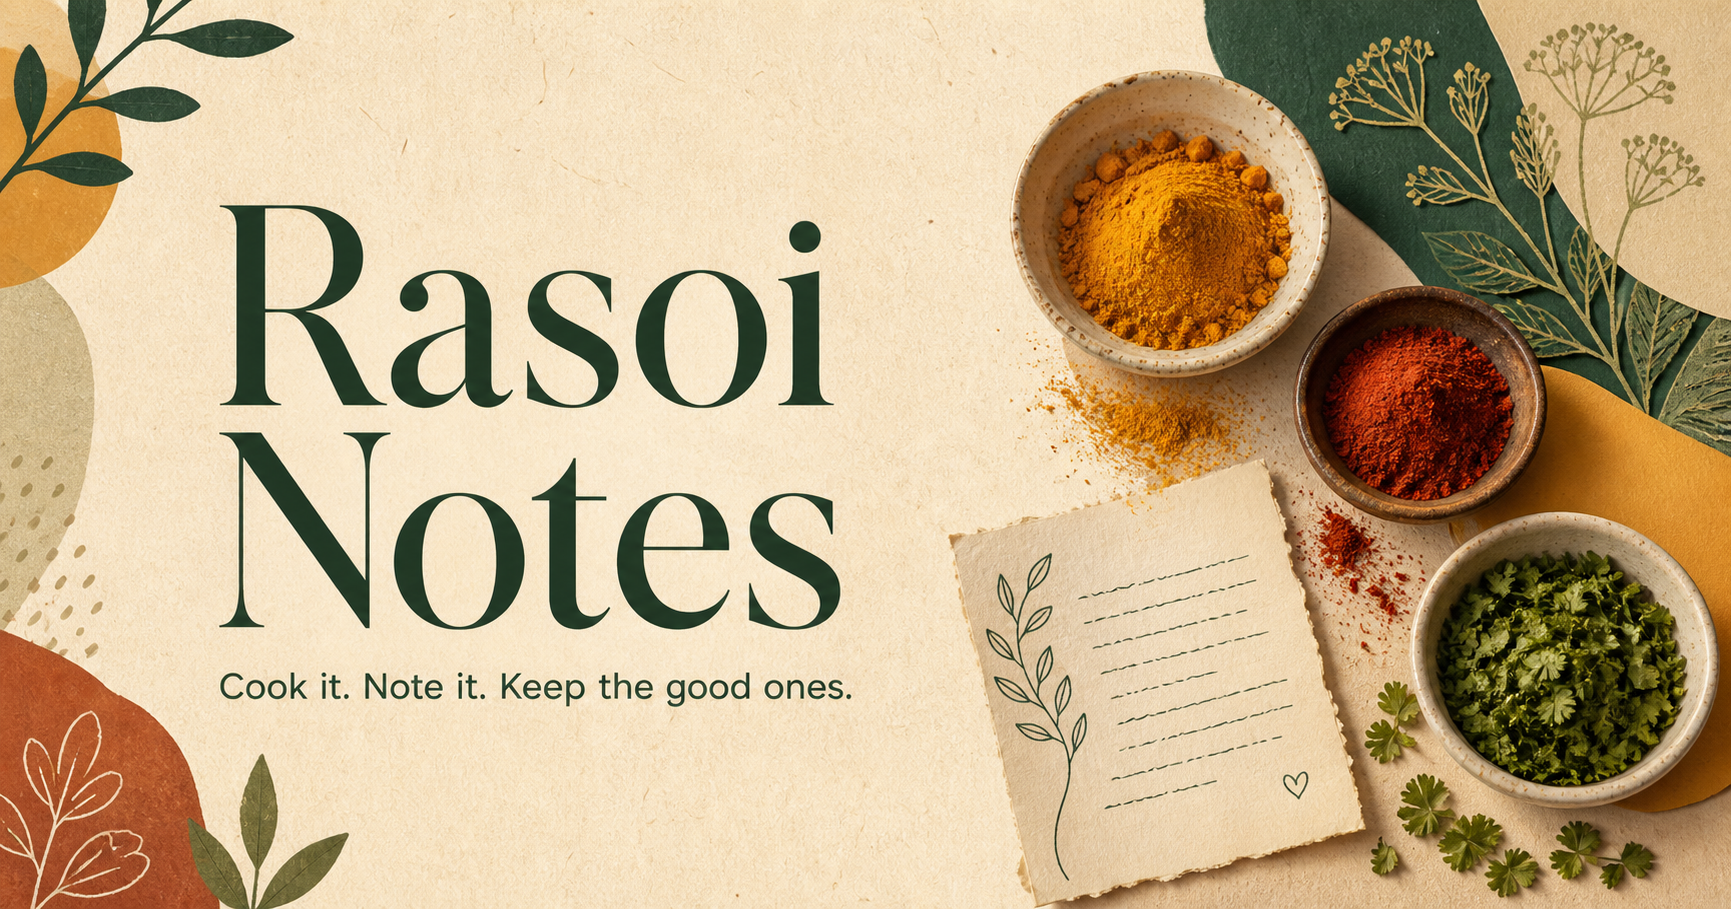
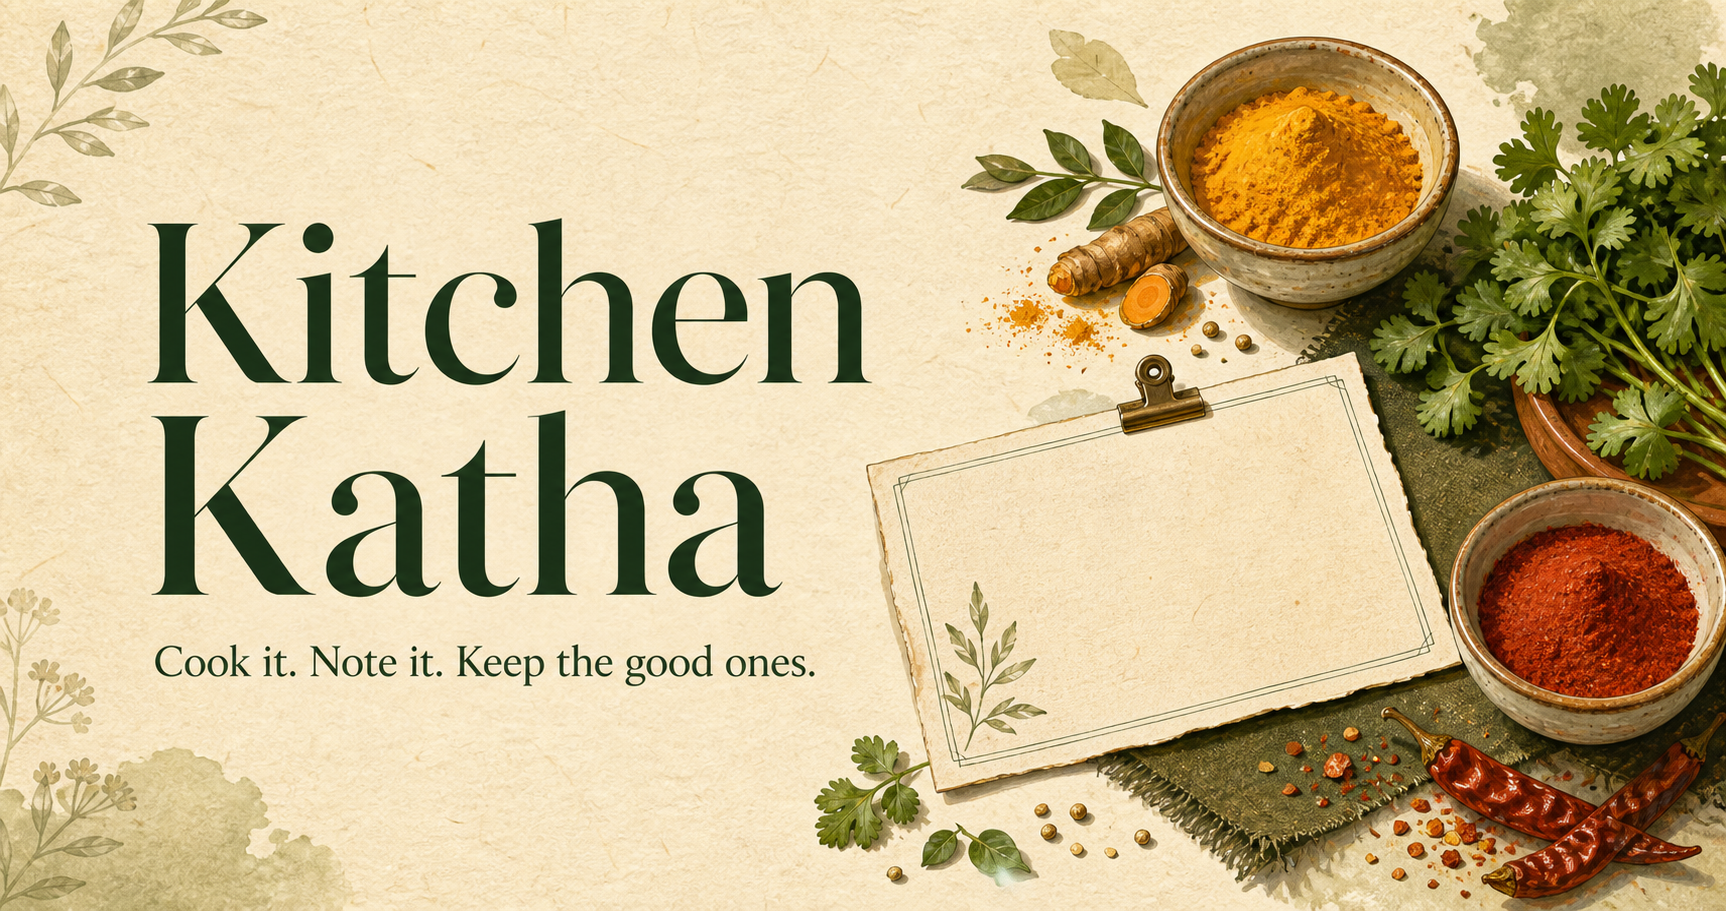
Rename site to Kitchen Katha

diff --git a/app/layout.tsx b/app/layout.tsx
@@ -1,19 +1,15 @@
 import type { Metadata } from "next";
-import { headers } from "next/headers";
 import "./globals.css";
 
-export async function generateMetadata(): Promise<Metadata> {
-  const host = (await headers()).get("host");
-  const image = host ? `${host.startsWith("localhost") ? "http" : "https"}://${host}/og.png` : undefined;
-  const description = "A personal recipe box and cooking journal for recipes worth making again.";
+const description = "A personal recipe box and cooking journal for recipes worth making again.";
+const image = "https://kitchen-katha.patilyash280699.chatgpt.site/og.png";
 
-  return {
-    title: { default: "Rasoi Notes", template: "%s · Rasoi Notes" },
-    description,
-    openGraph: image ? { title: "Rasoi Notes", description, images: [{ url: image }] } : undefined,
-    twitter: image ? { card: "summary_large_image", title: "Rasoi Notes", description, images: [image] } : undefined,
-  };
-}
+export const metadata: Metadata = {
+  title: { default: "Kitchen Katha", template: "%s · Kitchen Katha" },
+  description,
+  openGraph: { title: "Kitchen Katha", description, images: [{ url: image }] },
+  twitter: { card: "summary_large_image", title: "Kitchen Katha", description, images: [image] },
+};
 
 export default function RootLayout({
   children,

diff --git a/app/recipe-journal.tsx b/app/recipe-journal.tsx
@@ -168,9 +168,9 @@ export function RecipeJournal({ initialRecipes }: { initialRecipes: Recipe[] }) 
   return (
     <main>
       <header className="topbar">
-        <a className="brand" href="#top" aria-label="Rasoi Notes home">
+        <a className="brand" href="#top" aria-label="Kitchen Katha home">
           <span className="brand-mark">र</span>
-          <span>Rasoi Notes</span>
+          <span>Kitchen Katha</span>
         </a>
         <button className="button button-small" onClick={() => openForm()}>
           <span aria-hidden="true">＋</span> Add recipe

diff --git a/decision.md b/decision.md
@@ -43,3 +43,45 @@ The app can be used immediately as a private cooking journal. Photo uploads, mul
 **Reversal path**
 
 R2 can be added later for photos; an owner identifier can be added if multi-user access is needed; and ingredients can be normalised into related tables if analytics or grocery aggregation becomes a demonstrated requirement.
+
+## 2026-09-02 — Rename the product to Kitchen Katha
+
+**Context**
+
+The owner no longer wanted the Rasoi Notes name and selected Kitchen Katha after reviewing alternatives.
+
+**Options considered**
+
+Keep the existing name, rename only the on-page heading, or rename the product consistently across the interface, metadata, documentation, hosted Site and social preview.
+
+**Decision**
+
+Rename the product consistently to Kitchen Katha while preserving its existing recipe data, features, private access and visual direction.
+
+**Rationale**
+
+Kitchen Katha better expresses the personal stories and learning recorded through repeated cooking. A complete rename avoids conflicting names in browser tabs, shared links and project documentation.
+
+**Rejected alternatives**
+
+Keeping Rasoi Notes conflicts with the owner’s explicit choice. A display-only rename would leave stale branding in link previews and hosting metadata.
+
+**Trade-offs**
+
+Changing the hosted slug changes the production URL, so any saved bookmark using the old name may need to be replaced.
+
+**Implementation effect**
+
+Update the visible brand, accessible label, page and social metadata, package name, README, hosted title, hosted slug and social-preview image. No product behaviour or database schema changes.
+
+**Verification**
+
+The production build completed successfully and both recipe-input boundary tests passed on 2026-09-03. The hosted title and slug were updated, and the private deployment was prepared from the same verified source state.
+
+**Consequences**
+
+The product presents one consistent Kitchen Katha identity while keeping all existing recipes and storage intact.
+
+**Reversal path**
+
+Restore the previous text, metadata, package name, hosted title, slug and social-preview asset, then publish a new version.

diff --git a/README.md b/README.md
@@ -1,6 +1,6 @@
-# Rasoi Notes
+# Kitchen Katha
 
-Rasoi Notes is a private, mobile-friendly recipe box and cooking journal. It is designed around a simple loop: save a recipe, cook it, record what changed, and decide whether it is worth keeping.
+Kitchen Katha is a private, mobile-friendly recipe box and cooking journal. It is designed around a simple loop: save a recipe, cook it, record what changed, and decide whether it is worth keeping.
 
 ## What exists
 
